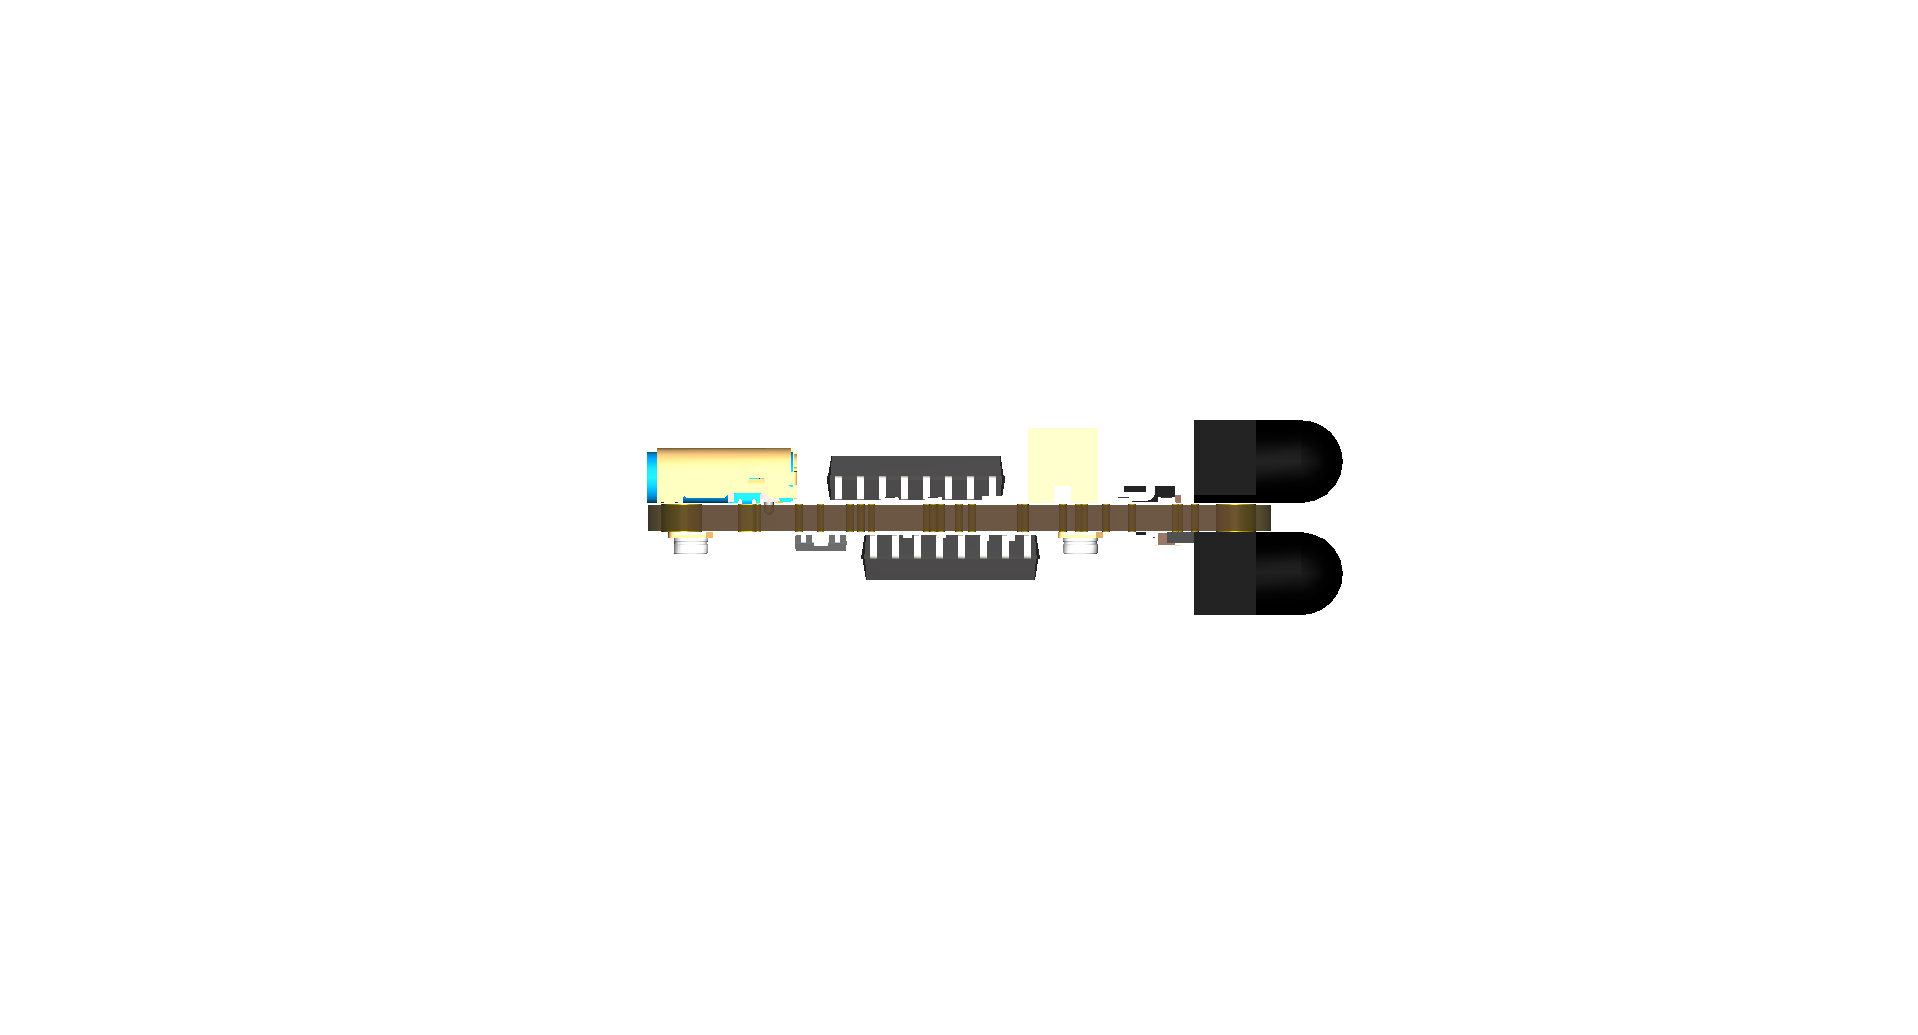
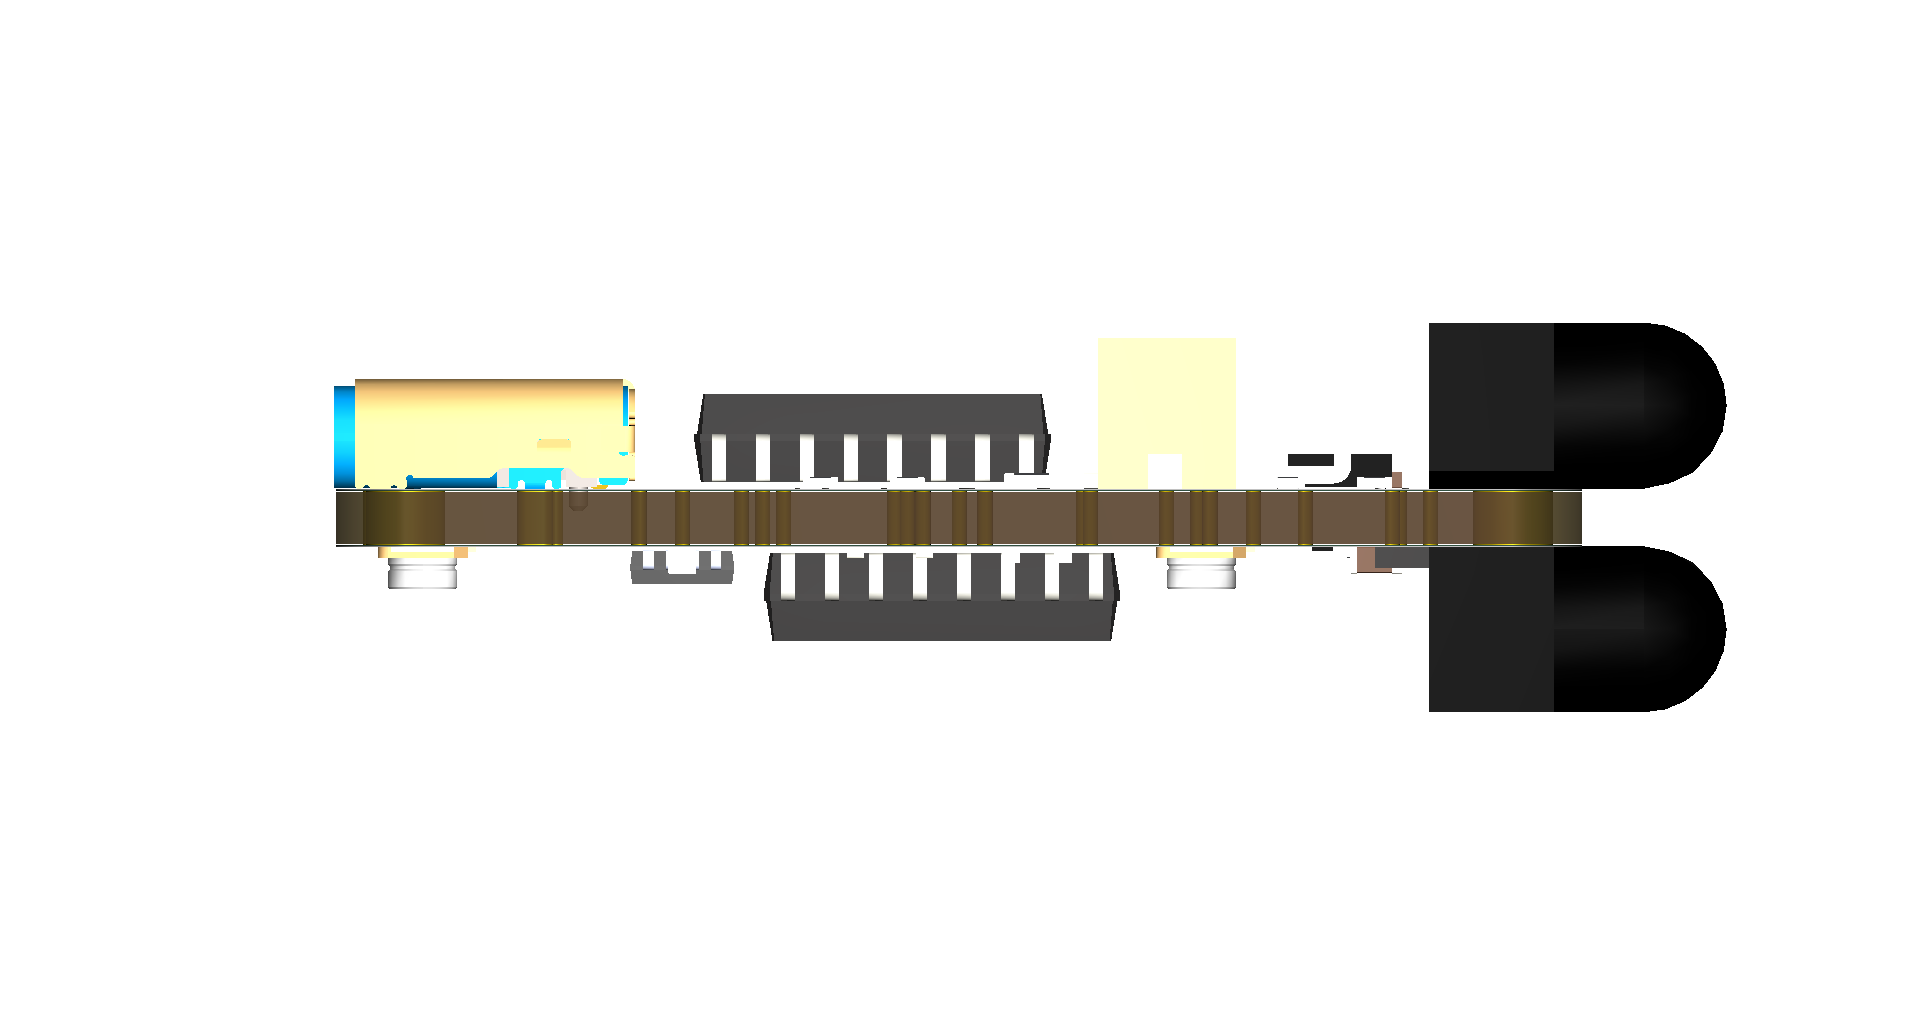
Adjust version number and resize model images

Changed region(s): [[0.1538, 0.3092, 0.9228, 0.7111]]

diff --git a/README.md b/README.md
@@ -1,22 +1,22 @@
-- [About](#org269ef66)
-- [Images](#org75559e5)
-- [Schematic](#orgf491974)
-- [PCB](#org81ad6ba)
-- [Bill of Materials](#org57821d6)
-- [Development](#orgd241264)
+- [About](#org7fd8db8)
+- [Images](#org540ec90)
+- [Schematic](#orgc4d091f)
+- [PCB](#orgddf9fc1)
+- [Bill of Materials](#org3b1bd03)
+- [Development](#orgf25999a)
 
     <!-- This file is generated automatically from metadata -->
     <!-- File edits may be overwritten! -->
 
 
-<a id="org269ef66"></a>
+<a id="org7fd8db8"></a>
 
 # About
 
 ```markdown
 - Project Name: wingbeat_detector
 - Description: Measures fly wingbeats using IR light reflected from flapping fly wings.
-- Version: 3.0
+- Version: 3.1
 - Kicad Version: 7.0.1
 - Release Date: 2023-03-29
 - Creation Date: 2023-02-17
@@ -31,7 +31,7 @@
 ```
 
 
-<a id="org75559e5"></a>
+<a id="org540ec90"></a>
 
 # Images
 
@@ -50,7 +50,7 @@
 <img src="./documentation/pcb/right.png" width="1280px">
 
 
-<a id="orgf491974"></a>
+<a id="orgc4d091f"></a>
 
 # Schematic
 
@@ -69,7 +69,7 @@
 <img src="./documentation/schematic/wingbeat_detector-assembly.svg" width="1280px">
 
 
-<a id="org81ad6ba"></a>
+<a id="orgddf9fc1"></a>
 
 # PCB
 
@@ -84,7 +84,7 @@
 <img src="./documentation/pcb/wingbeat_detector-B_Fab.svg" width="1280px">
 
 
-<a id="org57821d6"></a>
+<a id="org3b1bd03"></a>
 
 # Bill of Materials
 
@@ -128,7 +128,7 @@
 | 7    | 1        | Pomona Electronics | 5305                            | TEST LEAD BNC TO GRAB HOOK 5.5"  |
 
 
-<a id="orgd241264"></a>
+<a id="orgf25999a"></a>
 
 # Development
 
